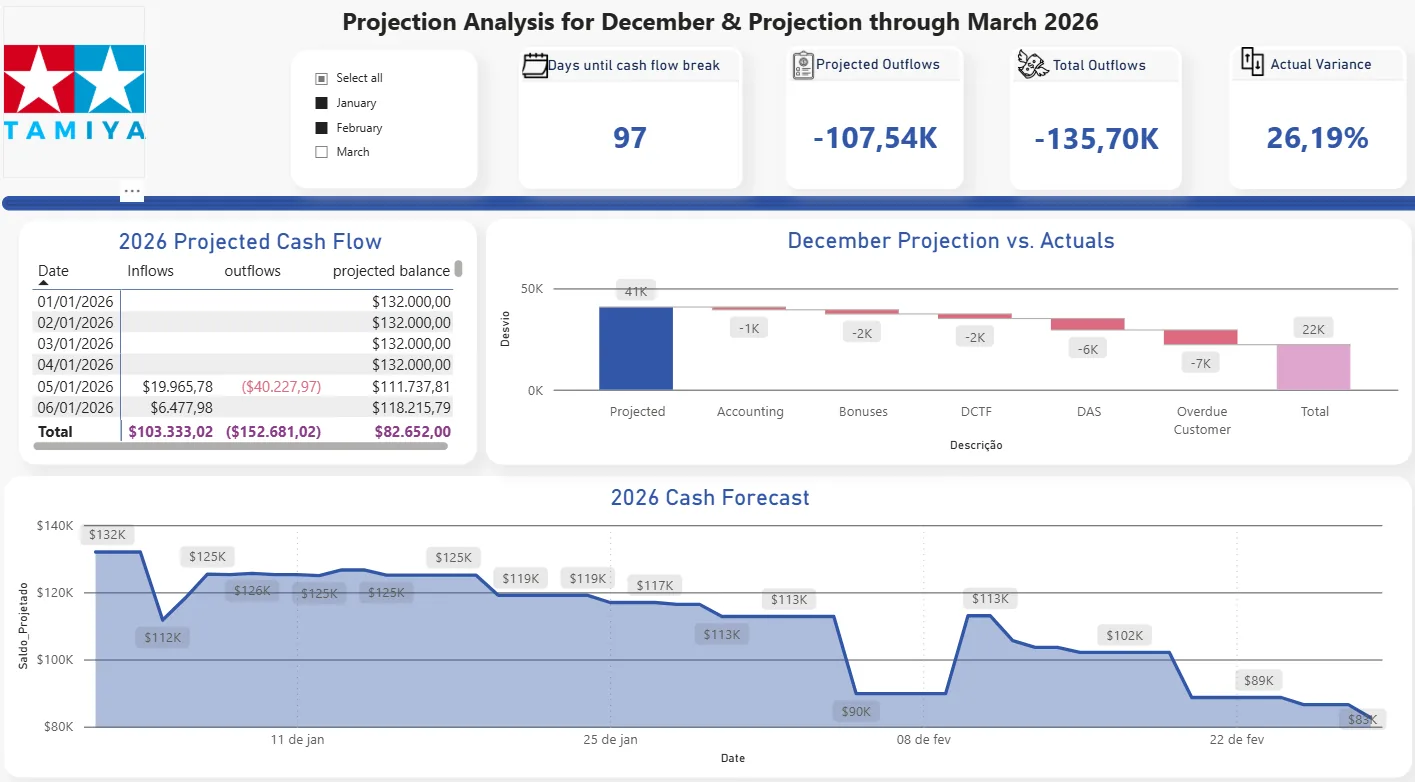
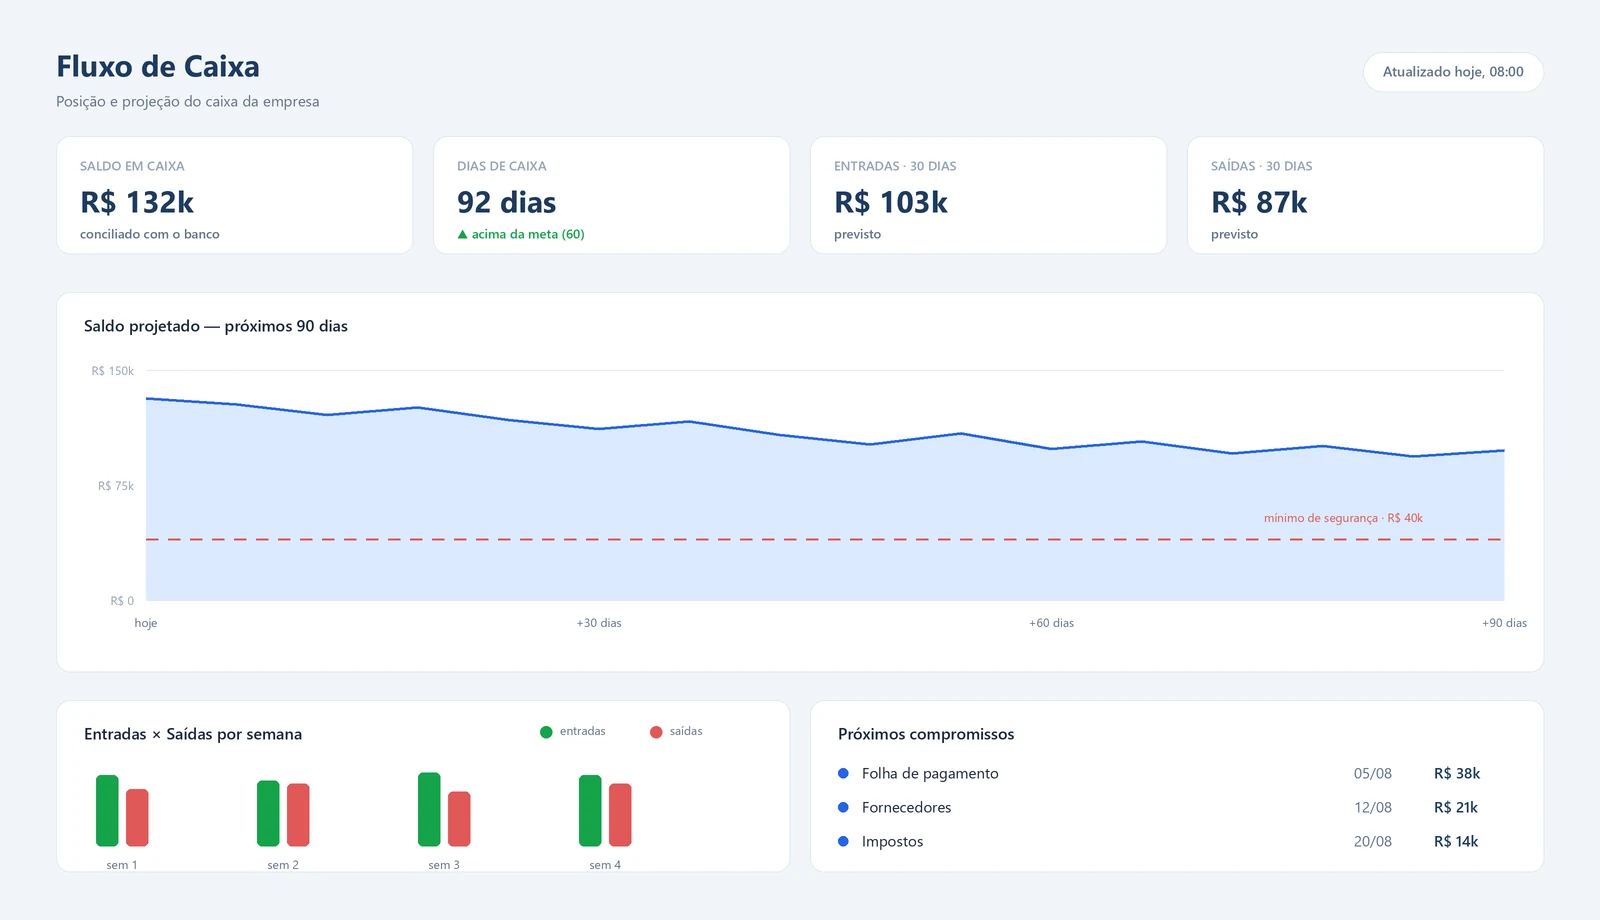
v1: dashboards ilustrativos proprios no showcase
Substitui os prints de projetos (em ingles e densos) por tres
mockups desenhados em PIL: DRE, fluxo de caixa e precificacao.
PT-BR, paleta do site, poucos numeros. Alt/hint viram ilustracao
com dados ficticios. 120KB no total.

diff --git a/v1/index.html b/v1/index.html
@@ -285,21 +285,21 @@
                     <button class="showcase-tab active" role="tab" aria-selected="true"
                         data-img="img/exemplos/dre.webp"
                         data-title="DRE Gerencial"
-                        data-alt="Dashboard de DRE gerencial em Power BI: receita, resultado e margem mês a mês">
+                        data-alt="Ilustração de dashboard de DRE gerencial: receita, lucro e margem mês a mês">
                         <strong>DRE Gerencial</strong>
                         <span>Resultado mês a mês, margem e quebra por categoria</span>
                     </button>
                     <button class="showcase-tab" role="tab" aria-selected="false"
                         data-img="img/exemplos/fluxo.webp"
                         data-title="Fluxo de Caixa & Projeção"
-                        data-alt="Dashboard de fluxo de caixa projetado: dias até quebra de caixa e previsto versus realizado">
+                        data-alt="Ilustração de dashboard de fluxo de caixa: saldo projetado, dias de caixa e compromissos">
                         <strong>Fluxo de Caixa &amp; Projeção</strong>
                         <span>Quantos dias de caixa você tem e o forecast diário</span>
                     </button>
                     <button class="showcase-tab" role="tab" aria-selected="false"
                         data-img="img/exemplos/precificacao.webp"
                         data-title="Simulador de Precificação"
-                        data-alt="Simulador de precificação com elasticidade-preço: impacto de cenários de preço na receita">
+                        data-alt="Ilustração de simulador de precificação: receita projetada por cenário de preço">
                         <strong>Simulador de Precificação</strong>
                         <span>E se o preço mudar? Impacto direto na receita projetada</span>
                     </button>
@@ -312,10 +312,10 @@
                             <em id="frameTitle">DRE Gerencial</em>
                         </div>
                         <a id="showcaseLink" href="img/exemplos/dre.webp" target="_blank" rel="noopener" title="Ampliar">
-                            <img id="showcaseImg" src="img/exemplos/dre.webp" alt="Dashboard de DRE gerencial em Power BI: receita, resultado e margem mês a mês">
+                            <img id="showcaseImg" src="img/exemplos/dre.webp" alt="Ilustração de dashboard de DRE gerencial: receita, lucro e margem mês a mês">
                         </a>
                     </div>
-                    <p class="showcase-hint">Clique na imagem para ampliar &nbsp;·&nbsp; dados de demonstração</p>
+                    <p class="showcase-hint">Clique na imagem para ampliar &nbsp;·&nbsp; ilustrações com dados fictícios</p>
                 </div>
             </div>
         </div>